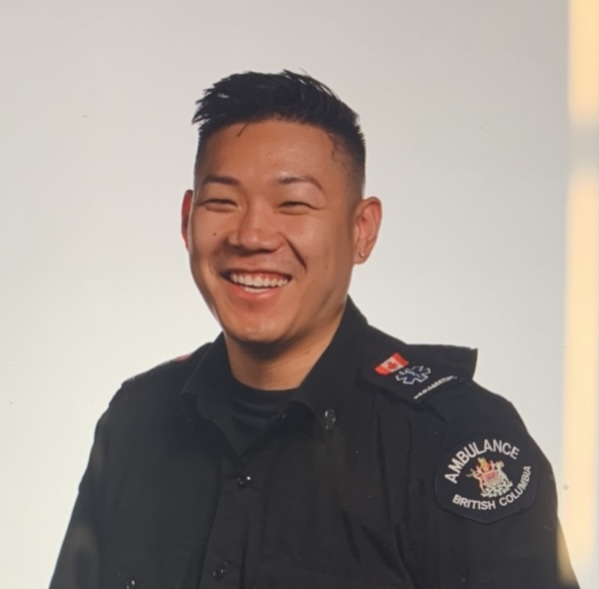
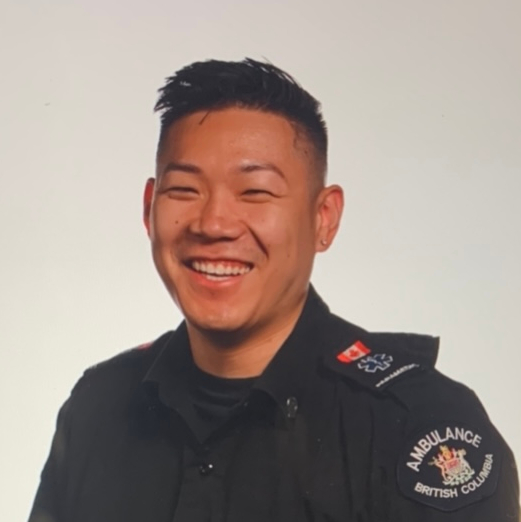
updated background, about me and navbar

Changed region(s): [[0.0307, 0.092, 1.0, 1.0], [0.952, 0.0, 1.0, 0.2146]]

diff --git a/public/index.html b/public/index.html
@@ -3,11 +3,6 @@
   <head>
     <meta charset="utf-8" />
     <link rel="icon" href="%PUBLIC_URL%/JasonPhoto.png" />
-    <div class="topnav">
-      <a href="https://github.com/JBHoang">GitHub</a>
-      <a href="https://www.linkedin.com/in/jbhoang/">Linkedin</a>
-      <a href="resume/Jason_Hoang_Resume.pdf">Resume</a>
-    </div>
     <meta name="viewport" content="width=device-width, initial-scale=1" />
     <meta name="theme-color" content="#000000" />
     <meta
@@ -31,7 +26,23 @@
     -->
     <title>Jason Hoang | Computer Science</title>
   </head>
+  <link rel="stylesheet" href="styles.css">
   <body>
+    <nav class = "navbar">
+      <div class="name">
+        
+          <p> Jason <em style="color:#FF0000">Hoang</em></p>
+        
+      </div>
+      <div class="navbar-links">
+        <ul>
+          <li><a href="https://github.com/JBHoang">GitHub</a></li>
+          <li><a href="https://www.linkedin.com/in/jbhoang/">Linkedin</a></li>
+          <li><a href="resume/Jason_Hoang_Resume.pdf">Resume</a></li>
+        </ul>
+      </div>
+    </nav>
+
     <noscript>You need to enable JavaScript to run this app.</noscript>
     <div id="root"></div>
     <!--

diff --git a/public/styles.css b/public/styles.css
@@ -1,0 +1,50 @@
+*{
+    box-sizing: border-box;
+}
+
+body {
+    margin: 0;
+    padding: 0;
+}
+
+
+.navbar{
+    display: flex;
+    justify-content: space-between;
+    align-items: center;
+    background-color: #1B1212;
+    color: white;
+}
+
+.name {
+    font-size: 30px;
+    margin-left: 25px;
+    margin-top: -15px;
+    margin-bottom: -15px;
+    font-weight: bold;
+}
+
+.navbar-links ul {
+    margin: 0;
+    padding: 0;
+    display: flex;
+    font-size: 20px;
+    font-weight: bold;
+}
+
+.navbar-links li{
+    list-style: none;
+}
+
+.navbar-links li a {
+    text-decoration: none;
+    color: white;
+    padding: 1rem;
+    display: block;
+}
+
+.navbar-links li:hover {
+    background-color: #555;
+    border-bottom: 4px solid #fff;
+    transition: all 0.2s ease-out; 
+}

diff --git a/src/components/HeroSection.css b/src/components/HeroSection.css
@@ -1,0 +1,37 @@
+.hero-container > h1 {
+    color: #fff;
+    font-size: 12px;
+    margin-top: 250px;
+    margin-left: 250px;
+    text-align: left;
+    font-weight: bold;
+  }
+
+  .hero-container > p {
+    color: #fff;
+    font-size: 30px;
+    margin-left: 250px;
+    text-align: left;
+    font-weight: bold;
+    margin-top: 5px;
+    margin-bottom: 5px;
+  }
+
+  .hero-container > p> em {
+    color: #FF0000;
+    font-size: 30px;
+    text-align: left;
+    font-weight: bold;
+    margin-top: 5px;
+    margin-bottom: 5px;
+  }
+
+  .profile-photo {
+    margin-left: 400px;
+    margin-top: -300px;
+    /* border-style: solid; */
+    border-width: 10px;
+    /* border-image: linear-gradient(45deg, rgb(238, 5, 5), rgb(1, 38, 245)) 1; */
+    box-sizing: border-box;
+  }
+  

diff --git a/src/App.js b/src/App.js
@@ -1,20 +1,14 @@
-import logo from './logo.svg';
 import './App.css';
-import profileImage from './img/JasonPhoto.JPG'
+import HeroSection from './components/HeroSection';
 
 function App() {
   return (
     <div className="App">
-      <h1>Jason Hoang</h1>
       
-      <img src ={profileImage} alt="profile-image" />
-      <h2> About Me</h2>
-      <p>I'm a Simon Fraser University Computer Science graduate with an interest in full-stack engineering. 
-        Besides building software, I love weight training, snowboarding and golfing.
-        An interesting fact about myself is a I'm a paramedic with BC Emgergency Health Service.
-        Check out my work experience and projects below.
-
-      </p>
+      <>
+      <HeroSection/>
+      </>
+      
       
     </div>
 

diff --git a/src/components/HeroSection.js b/src/components/HeroSection.js
@@ -1,0 +1,30 @@
+import React from 'react';
+import '../App.css';
+import './HeroSection.css';
+import profileImage from '../img/JasonPhoto.JPG'
+
+function HeroSection() {
+  return (
+    <div className='hero-container'>
+        <div className='hero-container'>
+            <h1>HELLO THERE, WELCOME TO MY SITE</h1> 
+            <p>
+            I'm Jason Hoang
+            <br></br>
+            <em>
+            A SFU Computer Science Graduate
+            </em>
+            <br></br>
+            & Emergency Paramedic
+            </p> 
+            </div>
+        
+        <div className="profile-photo">
+            <img src ={profileImage} alt="profile-image" />
+        </div>
+    </div>
+    
+  );
+}
+
+export default HeroSection;

diff --git a/src/App.css b/src/App.css
@@ -3,8 +3,9 @@
 }
 
 body {
-  background-color: white;
+  background-color: black;
 }
+
 
 .App-logo {
   height: 40vmin;
